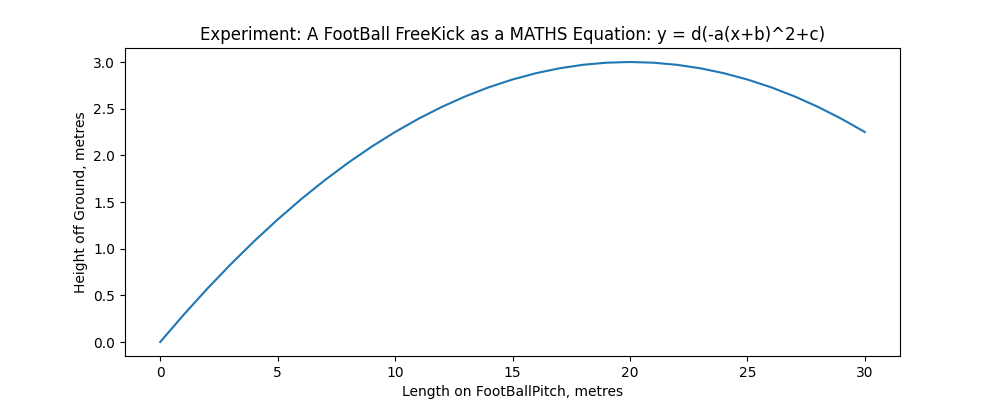
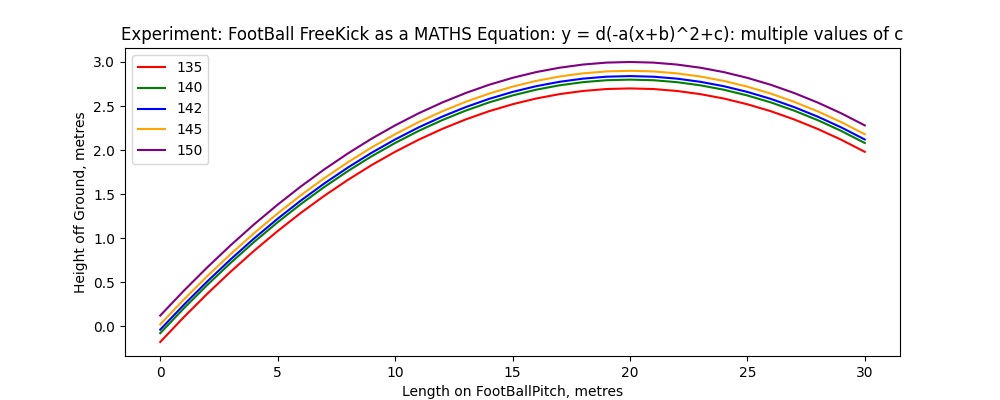
graphing: improved heading

diff --git a/pyt_graphing_experiments.py b/pyt_graphing_experiments.py
@@ -72,7 +72,7 @@ def plot_single_line_graph_2d(x_list, y_arrays, index=0):
     )
 
 def plot_multi_line_graph_2d(x_list, y_arrays, y_legends=None):
-    heading = 'Experiment: FootBall FreeKick as a MATHS Equation: y = d(-a(x+b)^2+c): multiple'
+    heading = 'Experiment: FootBall FreeKick as a MATHS Equation: y = d(-a(x+b)^2+c): multiple values of c'
     graph_fpath = './data/football_freekick.png'
     x_desc = 'Length on FootBallPitch, metres'
     y_desc = 'Height off Ground, metres'
